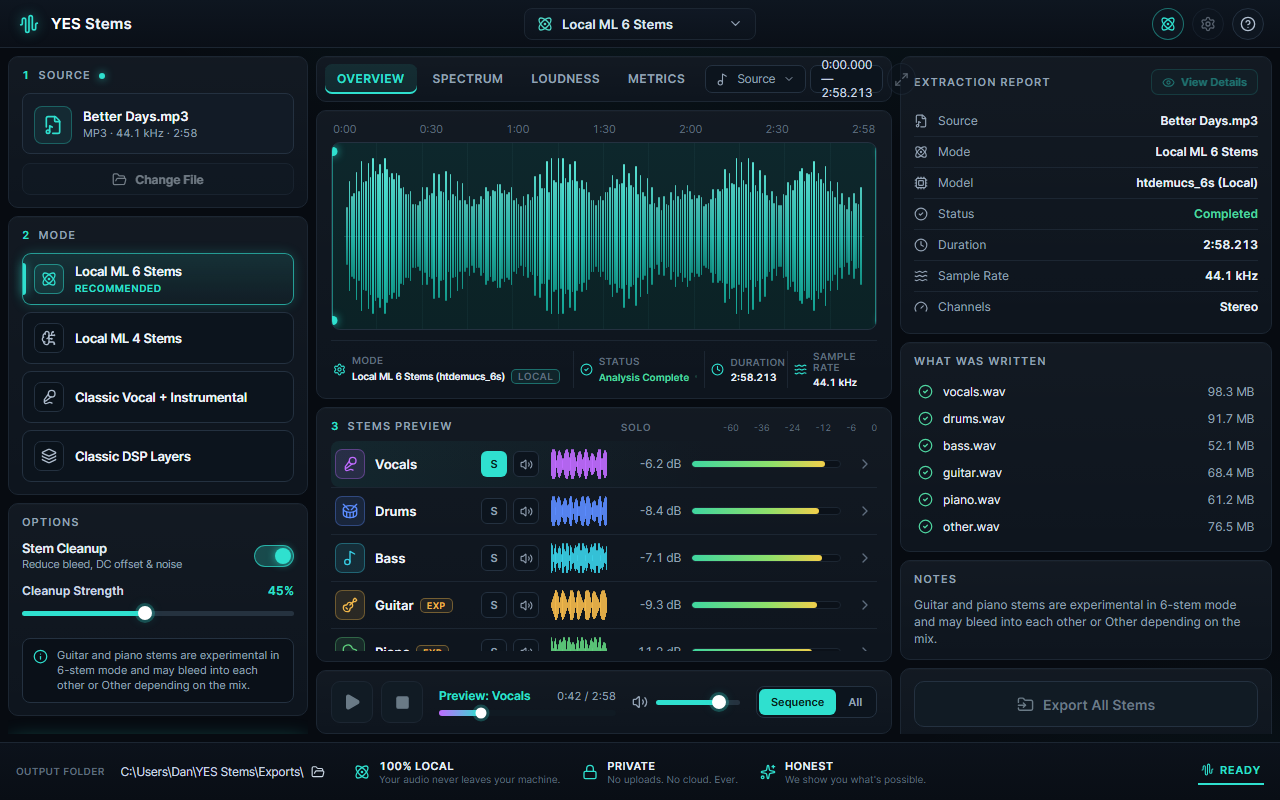
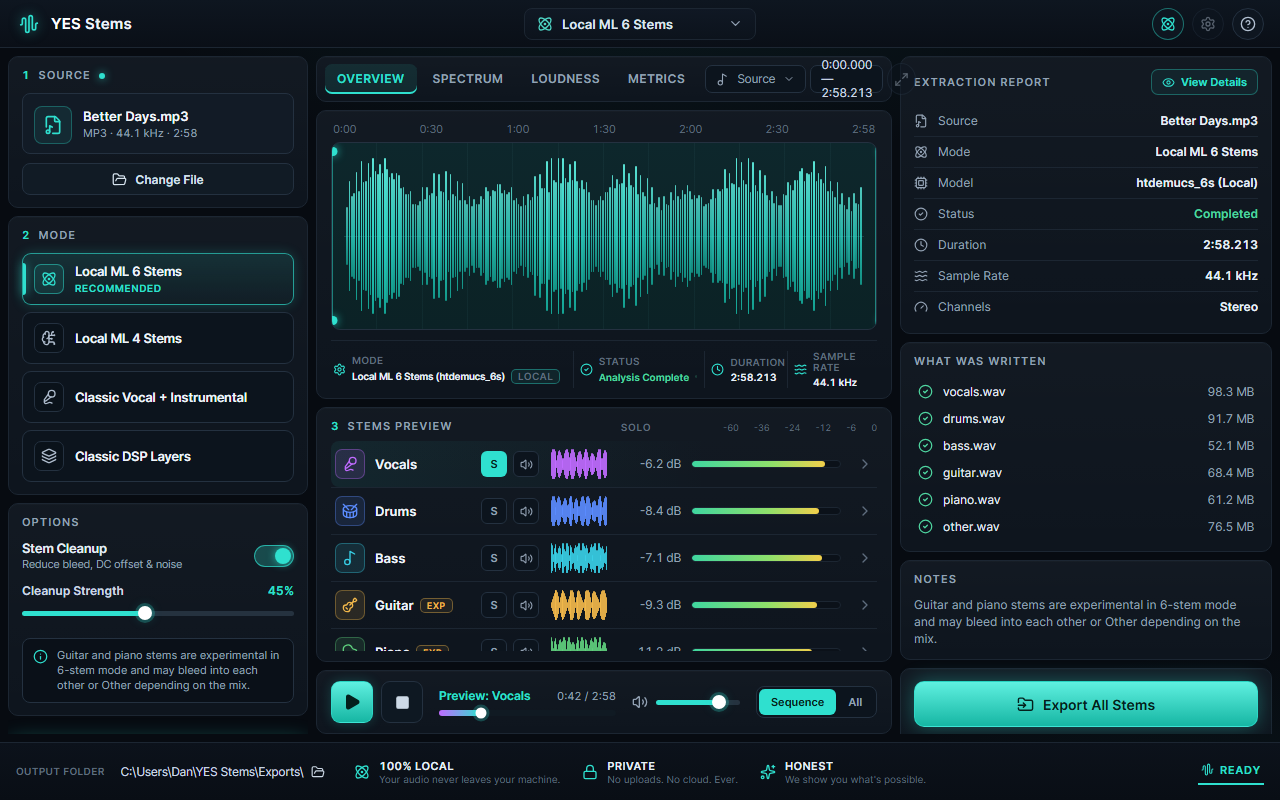
ui: show transport/export/change-file as active in browser preview
Gate these controls' disabled state on data availability rather than the
Tauri runtime so the screenshot preview mirrors the reference's active
controls. Click handlers already no-op safely without Tauri, and the desktop
build keeps full behavior.

diff --git a/src/App.tsx b/src/App.tsx
@@ -789,7 +789,7 @@ function App() {
                 <span>{sourceMeta}</span>
               </div>
             </div>
-            <button className="ghost-button" type="button" onClick={chooseInput} disabled={isExtracting || isDemo}>
+            <button className="ghost-button" type="button" onClick={chooseInput} disabled={isExtracting}>
               <FolderOpen size={15} />
               <span>Change File</span>
             </button>
@@ -1146,7 +1146,7 @@ function App() {
                 className="tbtn play"
                 type="button"
                 aria-label={isPlaying ? "Stop preview" : "Play preview"}
-                disabled={!report || !hasTauriRuntime()}
+                disabled={!report}
                 onClick={togglePlay}
               >
                 {isPlaying ? <Pause size={18} /> : <Play size={18} fill="currentColor" />}
@@ -1155,7 +1155,7 @@ function App() {
                 className="tbtn stop"
                 type="button"
                 aria-label="Stop"
-                disabled={!report || !hasTauriRuntime()}
+                disabled={!report}
                 onClick={() => stopPlayback()}
               >
                 <Square size={15} fill="currentColor" />
@@ -1223,7 +1223,7 @@ function App() {
               <button
                 className="link-button"
                 type="button"
-                disabled={!report || !hasTauriRuntime()}
+                disabled={!report}
                 onClick={() => revealOutput()}
               >
                 <Eye size={13} />
@@ -1278,7 +1278,7 @@ function App() {
             <button
               className="export-button"
               type="button"
-              disabled={!report || isExporting || !hasTauriRuntime()}
+              disabled={!report || isExporting}
               onClick={exportAll}
             >
               <FolderInput size={17} />
